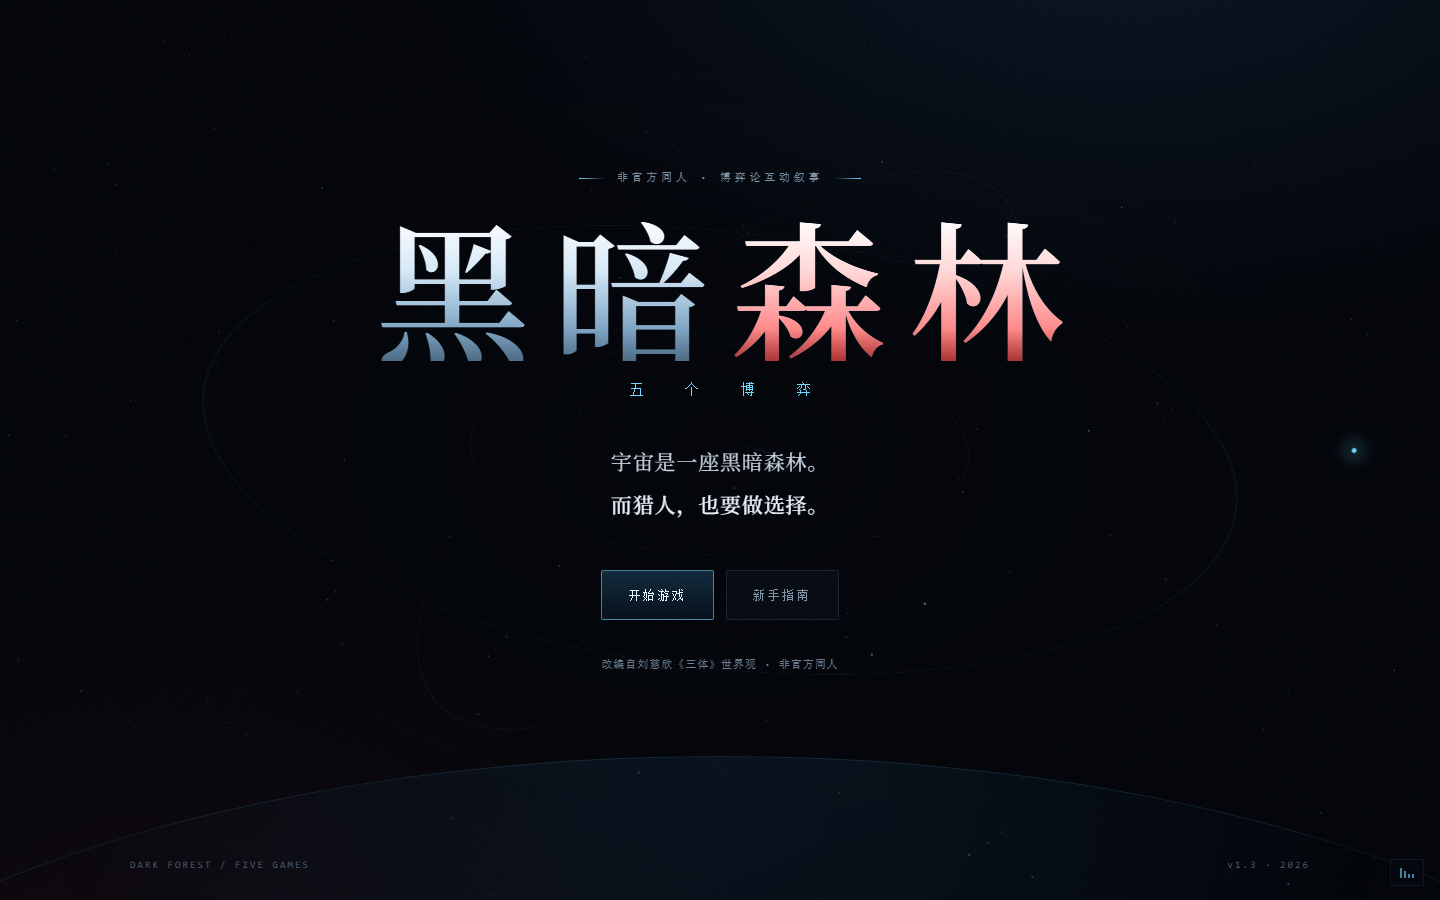
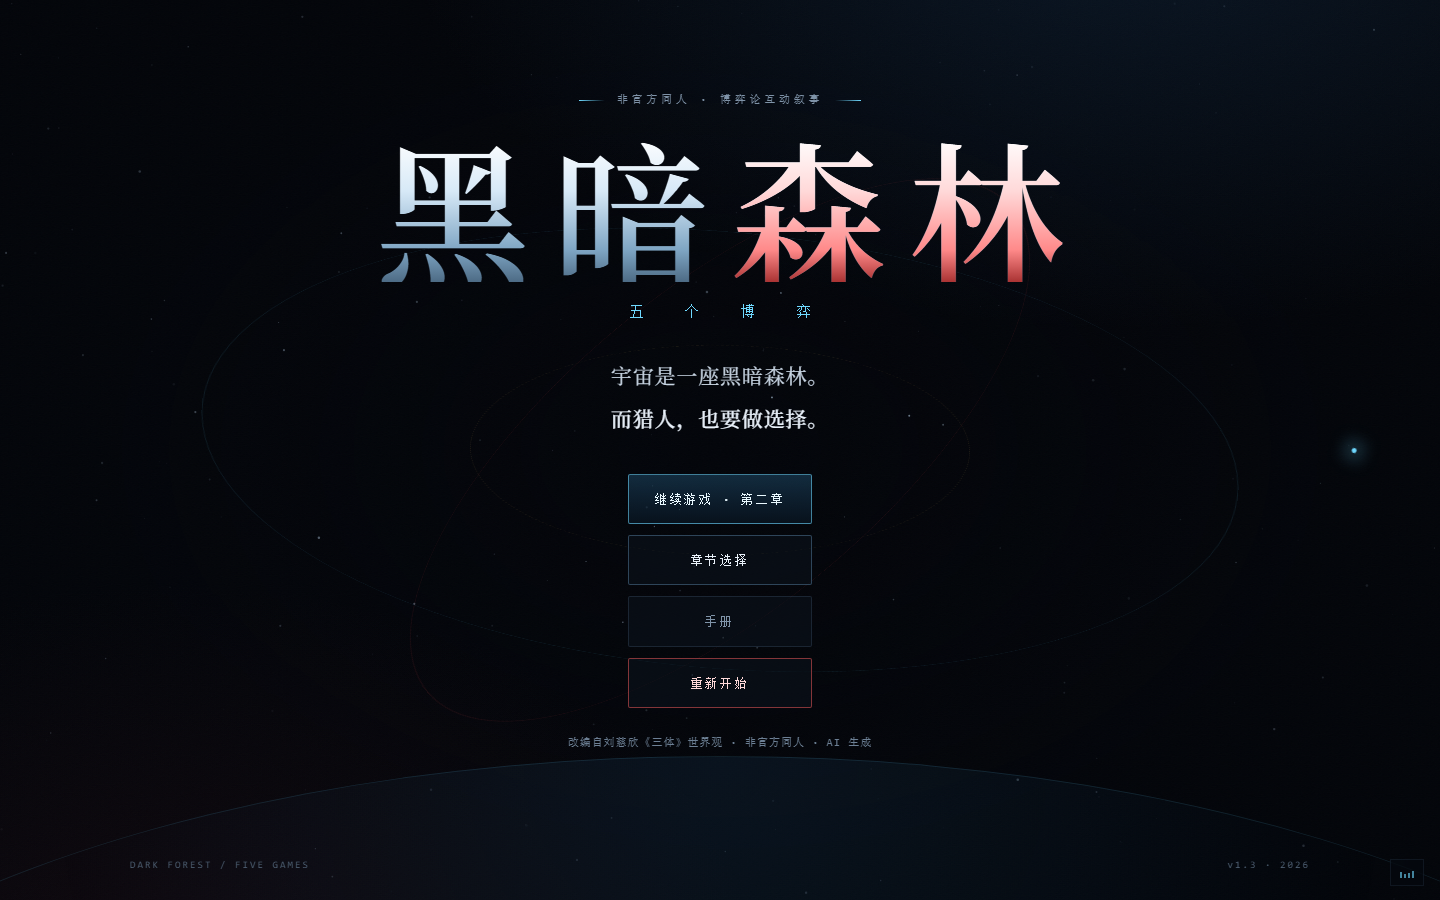
feat: 标题按钮竖排、独立重新开始与游戏内设置

diff --git a/dark-forest/js/core.js b/dark-forest/js/core.js
@@ -285,6 +285,184 @@ document.addEventListener("keydown", e => {
   if (e.key === "Escape" && SoundPanel.isOpen) SoundPanel.hide();
 });
 
+/* ---------------- settings ---------------- */
+const Settings = {
+  el: null,
+  isOpen: false,
+  prevFocus: null,
+  _armed: false,
+  _timer: 0,
+
+  build() {
+    const el = document.createElement("div");
+    el.className = "settings";
+    el.setAttribute("role", "dialog");
+    el.setAttribute("aria-modal", "true");
+    el.setAttribute("aria-label", "设置");
+    el.innerHTML = `
+      <div class="settings-backdrop" data-set-close></div>
+      <div class="settings-panel" tabindex="-1">
+        <div class="sp-head">
+          <span class="sp-title">设置 / SETTINGS</span>
+          <button class="sp-close" type="button" data-set-close aria-label="关闭设置">×</button>
+        </div>
+        <section class="set-section">
+          <h4>声音</h4>
+          <label class="set-row">
+            <span class="sp-k">音乐</span>
+            <input type="range" min="0" max="100" step="1" data-set-audio="music" aria-label="音乐音量">
+            <b class="sp-v" data-set-v="music">85</b>
+          </label>
+          <label class="set-row">
+            <span class="sp-k">音效</span>
+            <input type="range" min="0" max="100" step="1" data-set-audio="sfx" aria-label="音效音量">
+            <b class="sp-v" data-set-v="sfx">100</b>
+          </label>
+          <button class="sp-mute" type="button" data-set-mute>全部静音</button>
+        </section>
+        <section class="set-section">
+          <h4>游戏</h4>
+          <button class="btn btn--ghost btn--danger" type="button" data-set-title>返回标题</button>
+          <p class="set-note">返回后，当前章节未完成的进度不会保存；已完成的章节与统计不受影响。</p>
+        </section>
+        <section class="set-section">
+          <h4>快捷操作</h4>
+          <p class="set-note">键盘 1–5 选择 · Esc 关闭面板 · 右上角「?」打开手册</p>
+        </section>
+      </div>`;
+    document.body.appendChild(el);
+    this.el = el;
+
+    el.addEventListener("input", e => {
+      const key = e.target.dataset.setAudio;
+      if (!key) return;
+      const v = parseInt(e.target.value, 10) / 100;
+      e.target.style.setProperty("--p", e.target.value + "%");
+      if (key === "music") Sound.setMusic(v);
+      else Sound.setSfx(v);
+      this.sync();
+    });
+
+    el.addEventListener("click", e => {
+      if (e.target.closest("[data-set-close]")) { this.close(); return; }
+      if (e.target.closest("[data-set-mute]")) {
+        Sound.setMuted(!Sound.muted);
+        this.sync();
+        return;
+      }
+      if (e.target.closest("[data-set-title]")) this.armTitle();
+    });
+
+    this._key = e => {
+      if (e.key === "Escape") { this.close(); return; }
+      if (e.key !== "Tab") return;
+      const nodes = Array.from(this.el.querySelectorAll("button, input, [href], [tabindex]:not([tabindex='-1'])"))
+        .filter(n => !n.disabled && n.offsetParent !== null);
+      if (!nodes.length) return;
+      const first = nodes[0], last = nodes[nodes.length - 1];
+      const panel = this.el.querySelector(".settings-panel");
+      if (document.activeElement === panel) {
+        e.preventDefault();
+        (e.shiftKey ? last : first).focus();
+        return;
+      }
+      if (e.shiftKey && document.activeElement === first) {
+        e.preventDefault();
+        last.focus();
+      } else if (!e.shiftKey && document.activeElement === last) {
+        e.preventDefault();
+        first.focus();
+      }
+    };
+  },
+
+  open() {
+    if (this.isOpen) return;
+    if (!this.el) this.build();
+    SoundPanel.hide();
+    this.prevFocus = document.activeElement;
+    this.resetTitle();
+    this.sync();
+    this.el.classList.add("is-open");
+    this.isOpen = true;
+    const app = document.getElementById("app");
+    if (app) app.inert = true;
+    document.body.style.overflow = "hidden";
+    document.addEventListener("keydown", this._key);
+    const panel = this.el.querySelector(".settings-panel");
+    if (panel) panel.focus({ preventScroll: true });
+  },
+
+  close() {
+    if (!this.isOpen || !this.el) return;
+    this.el.classList.remove("is-open");
+    this.isOpen = false;
+    const app = document.getElementById("app");
+    if (app) app.inert = false;
+    document.body.style.overflow = "";
+    document.removeEventListener("keydown", this._key);
+    clearTimeout(this._timer);
+    this._armed = false;
+    this.resetTitle();
+    if (this.prevFocus && this.prevFocus.focus) this.prevFocus.focus({ preventScroll: true });
+  },
+
+  toggle() { this.isOpen ? this.close() : this.open(); },
+
+  sync() {
+    if (!this.el) return;
+    const m = Math.round(Sound.music * 100);
+    const s = Math.round(Sound.sfx * 100);
+    const mi = this.el.querySelector('[data-set-audio="music"]');
+    const si = this.el.querySelector('[data-set-audio="sfx"]');
+    const mv = this.el.querySelector('[data-set-v="music"]');
+    const sv = this.el.querySelector('[data-set-v="sfx"]');
+    if (mi) { mi.value = m; mi.style.setProperty("--p", m + "%"); }
+    if (si) { si.value = s; si.style.setProperty("--p", s + "%"); }
+    if (mv) mv.textContent = m;
+    if (sv) sv.textContent = s;
+    const mb = this.el.querySelector("[data-set-mute]");
+    if (mb) {
+      mb.textContent = Sound.muted ? "取消静音" : "全部静音";
+      mb.classList.toggle("is-muted", Sound.muted);
+    }
+  },
+
+  resetTitle() {
+    const b = this.el && this.el.querySelector("[data-set-title]");
+    if (!b) return;
+    b.textContent = "返回标题";
+    b.classList.remove("is-armed");
+  },
+
+  armTitle() {
+    if (!this.el) return;
+    const b = this.el.querySelector("[data-set-title]");
+    if (!b) return;
+    if (!this._armed) {
+      this._armed = true;
+      b.textContent = "确认返回标题？";
+      b.classList.add("is-armed");
+      this._timer = setTimeout(() => {
+        this._armed = false;
+        this.resetTitle();
+      }, 3200);
+      return;
+    }
+    this._armed = false;
+    clearTimeout(this._timer);
+    this.close();
+    if (typeof App !== "undefined") App.title();
+  }
+};
+
+document.addEventListener("click", e => {
+  if (e.target.closest("[data-settings-open]")) {
+    e.preventDefault();
+    Settings.toggle();
+  }
+});
+
 /* ---------------- starfield ---------------- */
 const Stars = {
   init() {
@@ -397,6 +575,7 @@ const UI = {
         <span class="pip ${idx >= CHAPTERS.length ? "is-done" : ""}"></span>
       </div>
       <div class="hud-right">${concept || ch.concept}</div>
+      <button class="hud-help" type="button" data-settings-open aria-label="设置" title="设置">设</button>
       <button class="hud-help" type="button" data-hb-open="theory" aria-label="打开游戏手册" title="打开游戏手册">?</button>
     </header>`;
   },

diff --git a/dark-forest/css/style.css b/dark-forest/css/style.css
@@ -162,23 +162,22 @@ body::before{
   animation:rise .9s .5s both;
 }
 .title-lead{
-  margin-top:36px;font-family:var(--serif);font-size:clamp(16px,1.7vw,21px);
+  margin-top:28px;font-family:var(--serif);font-size:clamp(16px,1.7vw,21px);
   line-height:2.05;color:#c9d6e4;letter-spacing:.04em;
   animation:rise .9s .68s both;
 }
 .title-lead b{color:var(--ink);font-weight:500}
-.title-wrap .btn-row{margin-top:44px;animation:rise .9s .86s both}
+.title-wrap .btn-row{
+  margin-top:34px;flex-direction:column;align-items:center;gap:11px;
+  animation:rise .9s .86s both;
+}
+.title-wrap .btn-row .btn{width:min(300px,100%);justify-content:center}
+.title-wrap .btn-row .btn--danger{margin-top:5px}
 .title-foot{
-  margin-top:34px;font-family:var(--mono);font-size:10.5px;letter-spacing:.14em;
+  margin-top:24px;font-family:var(--mono);font-size:10.5px;letter-spacing:.14em;
   color:#6d8095;line-height:2;animation:rise .9s 1s both;
   display:flex;align-items:center;justify-content:center;flex-wrap:wrap;gap:10px;
 }
-.title-reset{
-  font-family:var(--mono);font-size:9.5px;letter-spacing:.1em;color:var(--faint);
-  border-bottom:1px solid rgba(126,170,210,.18);padding:0 0 1px;
-  transition:color .2s,border-color .2s;
-}
-.title-reset:hover{color:var(--dim);border-bottom-color:var(--line-strong)}
 .title-version{
   position:absolute;left:0;right:0;bottom:26px;display:flex;justify-content:space-between;
   font-family:var(--mono);font-size:10px;letter-spacing:.2em;color:var(--faint);
@@ -624,6 +623,62 @@ details.concept .cbody{padding:0 4px 20px 144px;font-size:13.5px;line-height:1.9
 @keyframes eq{0%,100%{height:4px}50%{height:11px}}
 .sound-toggle.is-off .sound-bars i{height:2px;opacity:.28}
 
+/* settings modal */
+.settings{position:fixed;inset:0;z-index:120;display:none;place-items:center;padding:24px}
+.settings.is-open{display:grid}
+.settings-backdrop{
+  position:absolute;inset:0;background:rgba(2,4,8,.86);
+  backdrop-filter:blur(8px);-webkit-backdrop-filter:blur(8px);
+}
+.settings-panel{
+  position:relative;width:min(430px,100%);max-height:calc(100vh - 48px);overflow:auto;
+  background:linear-gradient(180deg,rgba(11,17,27,.99),rgba(6,10,17,.99));
+  border:1px solid var(--line-strong);padding:22px 24px 24px;
+  box-shadow:0 40px 100px -30px rgba(0,0,0,.95);
+}
+.settings-panel:focus{outline:none}
+.set-section{margin-top:22px;padding-top:18px;border-top:1px solid var(--line)}
+.set-section h4{
+  margin:0 0 12px;font-family:var(--mono);font-size:9px;letter-spacing:.22em;
+  color:var(--cyan);font-weight:400;
+}
+.set-row{
+  display:grid;grid-template-columns:36px minmax(0,1fr) 30px;align-items:center;gap:12px;
+  margin-top:12px;cursor:pointer;
+}
+.settings input[type="range"]{
+  -webkit-appearance:none;appearance:none;width:100%;height:18px;
+  background:transparent;cursor:pointer;
+}
+.settings input[type="range"]::-webkit-slider-runnable-track{
+  height:2px;
+  background:linear-gradient(90deg,rgba(111,217,255,.85) 0 var(--p,80%),rgba(126,170,210,.22) var(--p,80%) 100%);
+}
+.settings input[type="range"]::-webkit-slider-thumb{
+  -webkit-appearance:none;width:11px;height:11px;margin-top:-4.5px;border-radius:50%;
+  background:var(--cyan);box-shadow:0 0 10px rgba(111,217,255,.65);
+}
+.settings input[type="range"]::-moz-range-track{
+  height:2px;
+  background:linear-gradient(90deg,rgba(111,217,255,.85) 0 var(--p,80%),rgba(126,170,210,.22) var(--p,80%) 100%);
+}
+.settings input[type="range"]::-moz-range-thumb{
+  width:11px;height:11px;border:0;border-radius:50%;background:var(--cyan);
+  box-shadow:0 0 10px rgba(111,217,255,.65);
+}
+.settings input[type="range"]:focus-visible{outline:1px solid var(--cyan);outline-offset:4px}
+.set-note{font-size:10.5px;line-height:1.8;color:var(--dim);margin:12px 0 0}
+.settings .btn{width:100%}
+.settings .btn.is-armed{border-color:rgba(255,93,93,.7);background:rgba(60,16,20,.45)}
+.hud-help[data-settings-open]{font-size:10px;line-height:1;letter-spacing:0}
+@media (max-width:600px){
+  .settings{padding:0;align-items:end}
+  .settings-panel{
+    width:100%;max-height:92vh;border-left:0;border-right:0;border-bottom:0;
+    padding:20px 18px 28px;
+  }
+}
+
 .fade{animation:fade .7s ease both}
 @keyframes fade{from{opacity:0}to{opacity:1}}
 .stagger>*{animation:rise .65s cubic-bezier(.2,.8,.2,1) both}
@@ -897,6 +952,7 @@ details.concept .cbody p:last-child{margin-bottom:0}
   .game-title{letter-spacing:.08em;padding-left:.08em}
   .title-cn{letter-spacing:.6em;padding-left:.6em}
   .title-foot{font-size:10px;letter-spacing:.08em}
+  .title-version{display:none}
   .log-scroll{max-height:260px}
   .hud-en{display:none}
   .handbook{padding:0}

diff --git a/dark-forest/js/data.js b/dark-forest/js/data.js
@@ -529,6 +529,7 @@ const CONTROLS = [
   { t: "看不懂局面", d: "点右上角的「?」，或直接点击正文里带下划线的词。手册随时可以打开，不会打断游戏。" },
   { t: "每章结束后", d: "会翻开一页「博弈论手记」，把这个场景背后的模型、公式和结论拆开讲清楚。可以跳读。" },
   { t: "存档", d: "进度自动保存在浏览器本地。标题页可以继续、重玩任意一章或查看实验报告。" },
-  { t: "声音", d: "右下角可以分别调节音乐与音效，也可以一键静音；偏好会被记住。建议第一次玩时戴上耳机。" },
+  { t: "声音", d: "右下角的「声音」或游戏内右上角的「设」都可以分别调节音乐与音效，也可以一键静音；偏好会被记住。" },
+  { t: "设置 / 返回标题", d: "右上角的「设」里可以返回标题；中途返回不会保存当前章节未完成的进度。" },
   { t: "推荐玩法", d: "第一遍凭直觉选；看完手记后，回到「章节选择」用另一种策略再玩一次。两次的差别，就是博弈论。" }
 ];

diff --git a/dark-forest/js/app.js b/dark-forest/js/app.js
@@ -187,12 +187,12 @@ const App = {
           <button class="btn btn--primary" type="button" data-act="${started ? "continue" : "start"}">${primaryLabel}</button>
           ${started
             ? `<button class="btn" type="button" data-act="chapters">章节选择</button>
-               <button class="btn btn--ghost" type="button" data-hb-open="theory">手册</button>`
+               <button class="btn btn--ghost" type="button" data-hb-open="theory">手册</button>
+               <button class="btn btn--ghost btn--danger" type="button" data-act="reset">重新开始</button>`
             : `<button class="btn btn--ghost" type="button" data-hb-open="world">新手指南</button>`}
         </div>
         <p class="title-foot">
           改编自刘慈欣《三体》世界观 · 非官方同人 · AI 生成
-          ${started ? `<button class="title-reset" type="button" data-act="reset">重新开始</button>` : ""}
         </p>
       </div>
       <div class="wrap title-version">

diff --git a/dark-forest/README.md b/dark-forest/README.md
@@ -68,7 +68,13 @@
 
 双击 `index.html`，用 Chrome / Edge 打开即可。无需安装、无需联网、无需服务器。
 
-音乐与音效可以分别调节（右下角「声音」），偏好自动保存在本地。
+音乐与音效可以分别调节（右下角「声音」，或游戏内右上角的「设」），偏好自动保存在本地。
+
+## 游戏内设置
+
+右上角的「设」打开设置面板：分别调节音乐 / 音效、一键静音，或直接返回标题（二次确认，当前章节未完成的进度不会保存）。
+
+<img src="screenshots/settings.png" alt="设置面板" width="720">
 
 ---
 
